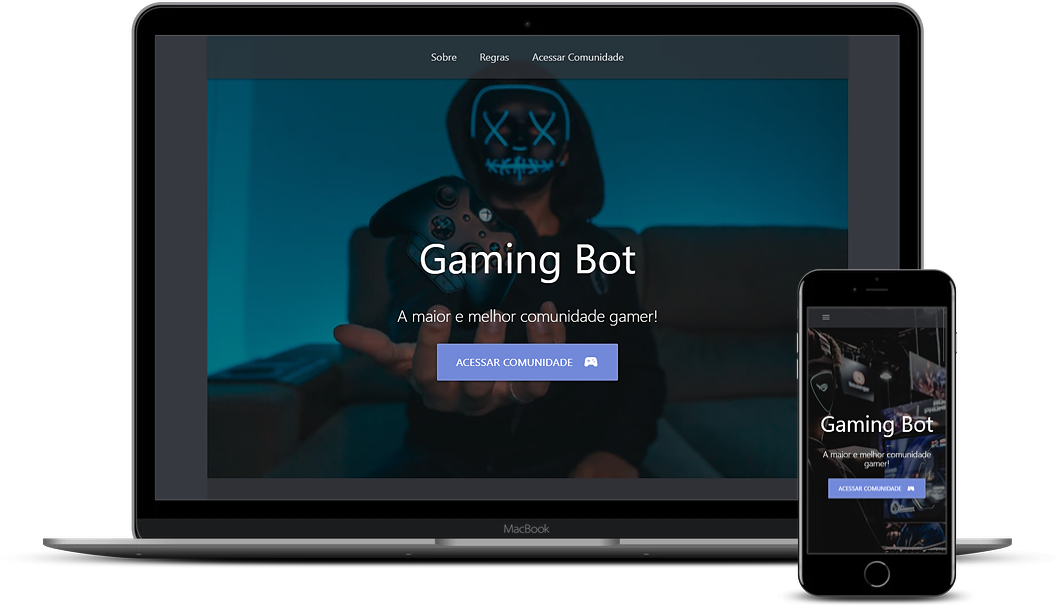
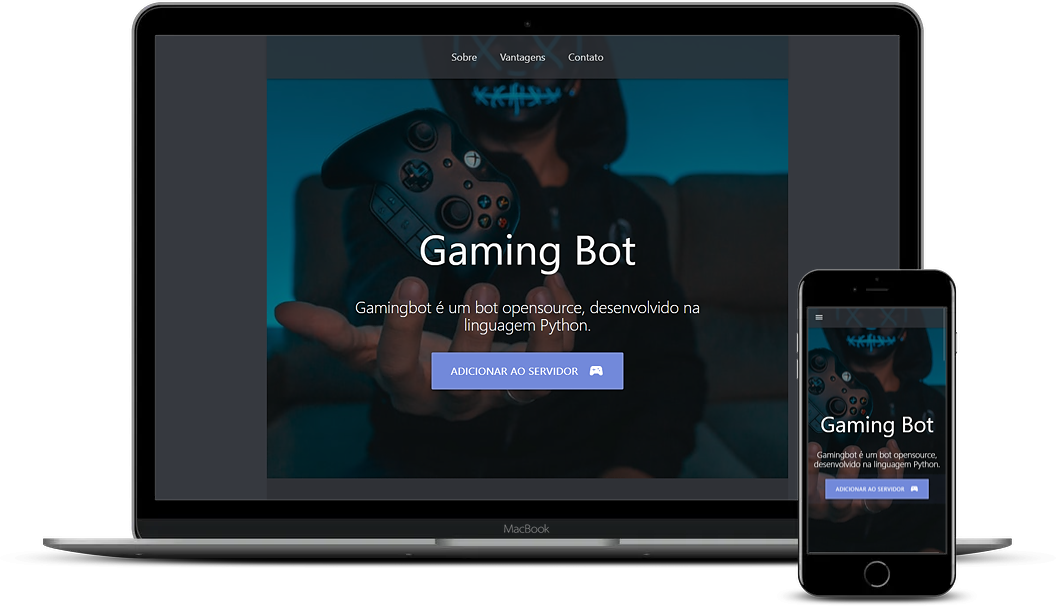
refactored website

Changed region(s): [[0.1875, 0.0891, 0.9062, 0.9208], [0.5312, 0.7426, 0.5938, 0.802], [0.625, 0.6832, 0.6562, 0.7723]]

diff --git a/index.html b/index.html
@@ -5,13 +5,15 @@
   <meta http-equiv="Content-Type" content="text/html; charset=UTF-8" />
   <meta name="viewport" content="width=device-width, initial-scale=1, maximum-scale=1.0" />
   <title>Gaming Bot | Comunidade Gamer</title>
+  <!--[if IE]><link rel="shortcut icon" href="images/favicon.ico"><![endif]-->
+  <link rel="icon" href="img/favicon.ico" type="image/x-icon">
   <link rel="stylesheet" href="css/materialize.css">
   <link href="https://fonts.googleapis.com/icon?family=Material+Icons" rel="stylesheet">
   <link href="css/style.css" type="text/css" rel="stylesheet" media="screen,projection" />
 </head>
 
 <body>
-  <div>
+  <div class="nav-mobile">
     <ul class="sidenav" id="nav-mobile">
       <li>
         <a href="#about">
@@ -20,14 +22,14 @@
         </a>
       </li>
       <li>
-        <a href="#rules">
-          <span>Regras</span>
-          <i class="material-icons white-text left">book</i>
+        <a href="#benefits">
+          <span>Vantagens</span>
+          <i class="material-icons white-text left">assignment_turned_in</i>
         </a>
       </li>
       <li>
-        <a href="#banner">
-          <span>Acessar Comunidade</span>
+        <a href="#contact">
+          <span>Contato</span>
           <i class="material-icons white-text left">sports_esports</i>
         </a>
       </li>
@@ -41,8 +43,8 @@
         <div class="nav-wrapper container">
           <ul class="hide-on-med-and-down">
             <li><a href="#about">Sobre</a></li>
-            <li><a href="#rules">Regras</a></li>
-            <li><a href="#banner">Acessar Comunidade</a></li>
+            <li><a href="#benefits">Vantagens</a></li>
+            <li><a href="#contact">Contato</a></li>
           </ul>
           <a href="#" data-target="nav-mobile" class="sidenav-trigger"><i class="material-icons">menu</i></a>
         </div>
@@ -51,11 +53,12 @@
       <div class="container scrollspy" id="banner">
         <h1 class="header center">Gaming Bot</h1>
         <div class="row center">
-          <h5 class="header col s12 light">A maior e melhor comunidade gamer!</h5>
+          <h5 class="header col s12 light">Gamingbot é um bot opensource, desenvolvido na linguagem Python.
+          </h5>
         </div>
         <div class="row center">
           <a href="#" class="btn-large waves-effect waves-light pulse">
-            <span>Acessar Comunidade</span>
+            <span>Adicionar ao servidor</span>
             <i class="material-icons white-text right">sports_esports</i>
           </a>
         </div>
@@ -69,7 +72,8 @@
           style="background: url(https://source.unsplash.com/collection/9744496/500x300) no-repeat center center / cover;">
         </div>
         <div class="about-description">
-          <h2>Gamig Bot</h2>
+          <h2>Feito com ❤ para a
+            comunidade gamer.</h2>
           <p>Lorem ipsum dolor sit amet consectetur adipisicing elit. Autem eos exercitationem laborum, in sint
             dignissimos nemo nobis, voluptas est a accusamus debitis dicta dolore deleniti reprehenderit
             repellat illo consectetur optio libero aspernatur ullam repellendus sunt ad. Vitae blanditiis,
@@ -93,10 +97,10 @@
       </div>
     </section>
 
-    <section class="section-container scrollspy" id="rules">
-      <h2 class="title-style">Regras</h2>
+    <section class="section-container scrollspy" id="benefits">
+      <h2 class="title-style">Vantagens</h2>
       <div class="container">
-        <div class="rules">
+        <div class="benefits">
           <p>Lorem ipsum dolor sit amet consectetur adipisicing elit. Autem eos exercitationem laborum, in sint
             dignissimos nemo nobis, voluptas est a accusamus debitis dicta dolore deleniti reprehenderit
             repellat illo consectetur optio libero aspernatur ullam repellendus sunt ad. Vitae blanditiis,
@@ -118,17 +122,13 @@
             <p>Lorem ipsum dolor sit amet consectetur adipisicing elit. Tempore,
               aspernatur aut quos modi corporis assumenda eveniet quibusdam veniam suscipit enim perspiciatis ipsum eum
               quidem error cum! Aut deleniti ex corrupti.</p>
-
-
           </div>
 
-          <div class="col l3 s12">
-            <h5 class="white-text">Moderadores</h5>
+          <div class="col l6 s12 scrollspy" id="contact">
+            <h5 class="white-text">Contato</h5>
             <ul>
-              <li>Lorem_x13-Ipsum</li>
-              <li>!Ips_um></li>
-              <li>$L0r3N</li>
-              <li>[L]1P$UN</li>
+              <li>$L0r3N#0000</li>
+              <li>[L]1P$UN#0000</li>
             </ul>
           </div>
         </div>

diff --git a/css/style.css b/css/style.css
@@ -3,6 +3,22 @@ body {
   background-color: #36393f;
 }
 
+::-webkit-scrollbar {
+  width: 10px;
+}
+
+::-webkit-scrollbar-track {
+  background: #ccc;
+}
+
+::-webkit-scrollbar-thumb {
+  background: #7289da;
+}
+
+::-webkit-scrollbar-thumb:hover {
+  background: #395ee4;
+}
+
 #main {
   background-color: #2f3136;
 }

diff --git a/README.md b/README.md
@@ -3,13 +3,13 @@
 </h1>
 <br>
 <p align="center">
-  <img alt="GitHub language count" src="https://img.shields.io/github/languages/count/martins-rafael/gamingbot?color=7289da">
+  <img alt="GitHub language count" src="https://img.shields.io/github/languages/count/martins-rafael/gamingbot?color=7289da&style=flat-square">
   <a href="https://opensource.org/licenses/MIT">
-    <img alt="License" src="https://img.shields.io/badge/license-MIT-7289da">
+    <img alt="License" src="https://img.shields.io/badge/license-MIT-7289da?style=flat-square">
   </a>
-  <img alt="Repository size" src="https://img.shields.io/github/repo-size/martins-rafael/gamingbot?color=7289da">
+  <img alt="Repository size" src="https://img.shields.io/github/repo-size/martins-rafael/gamingbot?color=7289da&style=flat-square">
   <a href="https://github.com/martins-rafael/gamingbot/commits/master">
-    <img alt="GitHub last commit" src="https://img.shields.io/github/last-commit/martins-rafael/gamingbot?color=7289da">
+    <img alt="GitHub last commit" src="https://img.shields.io/github/last-commit/martins-rafael/gamingbot?color=7289da&style=flat-square">
   </a>
 </p>
 
